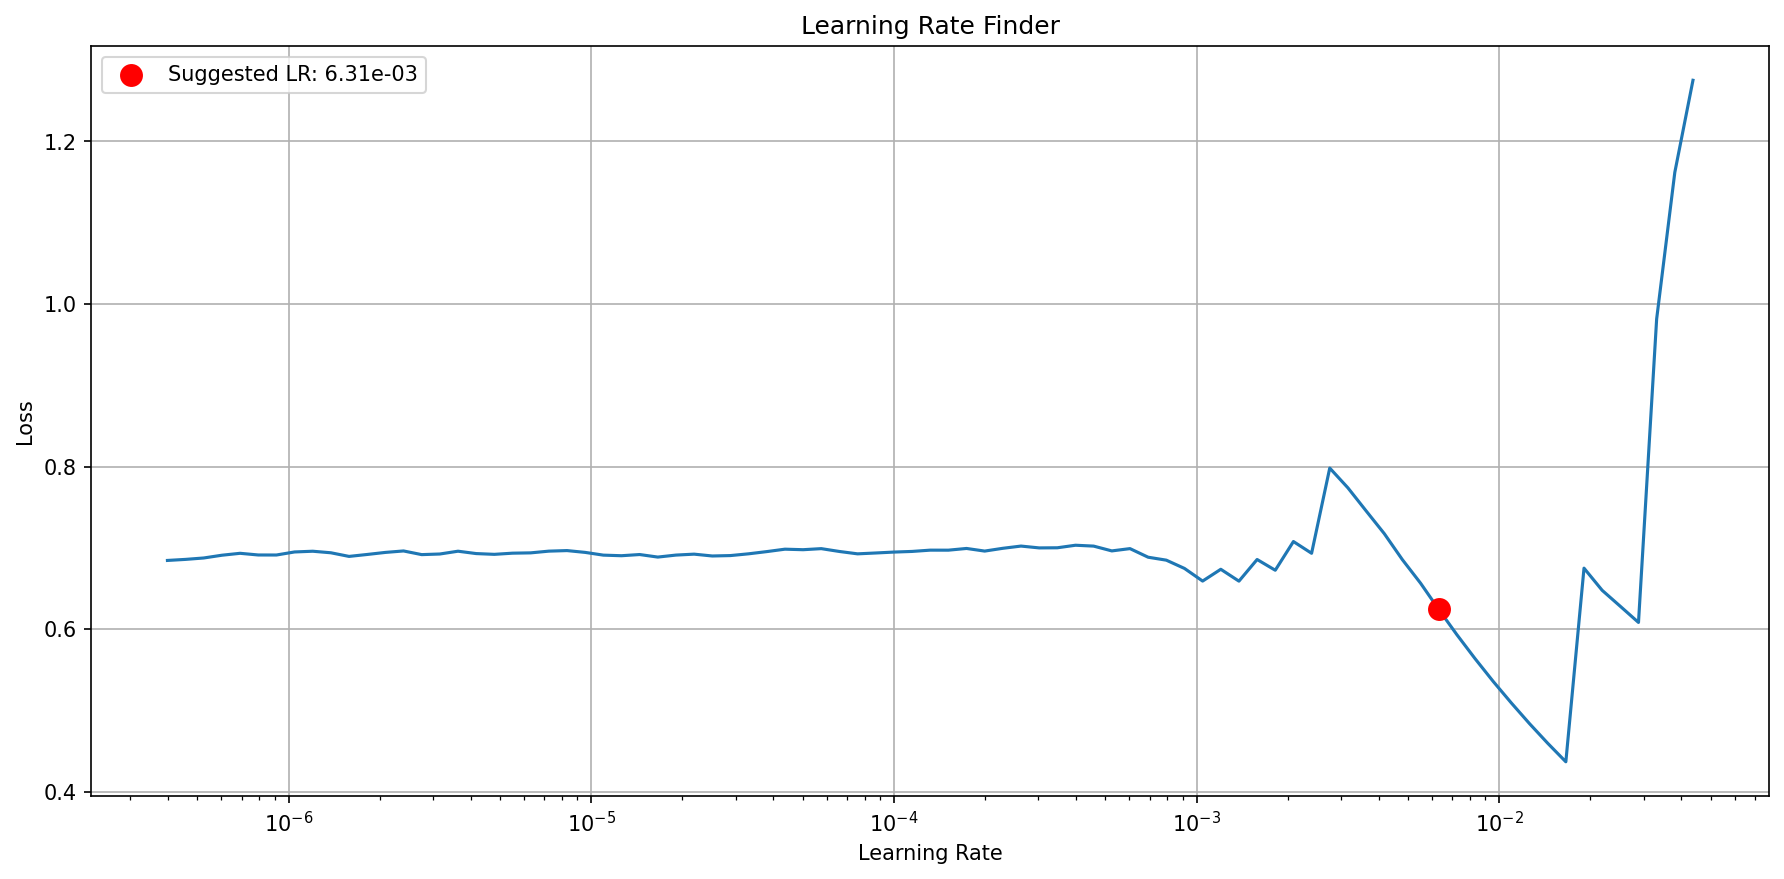
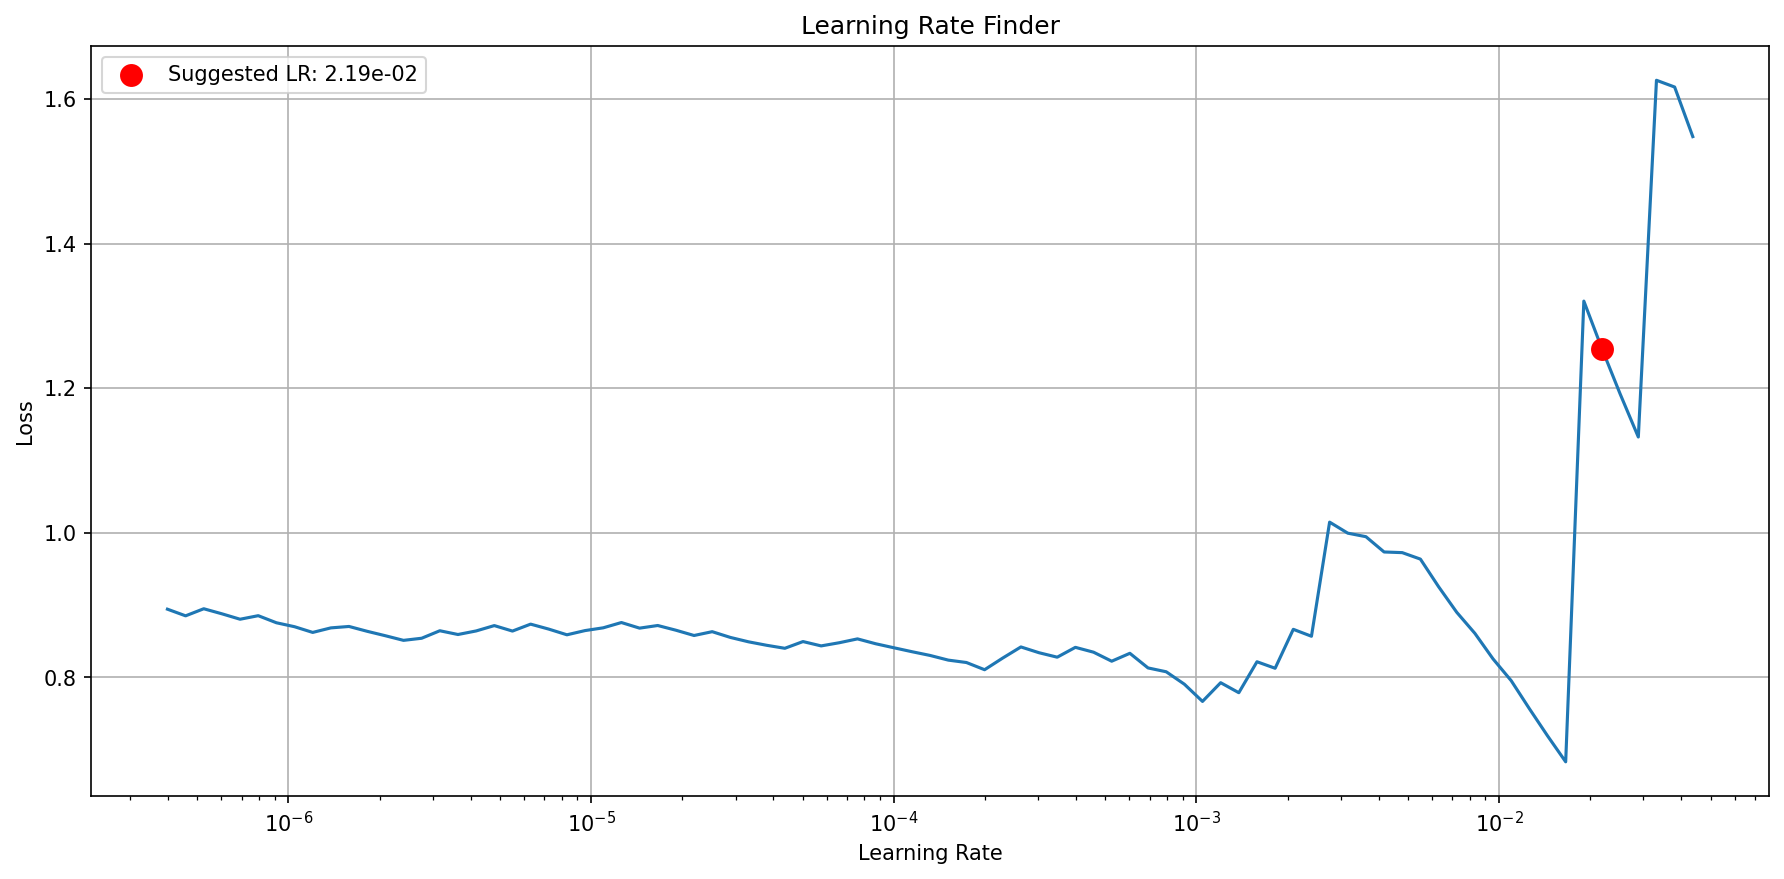
max_norm update

diff --git a/lr_finder.py b/lr_finder.py
@@ -17,6 +17,7 @@ parser.add_argument('--device', type=str, default='cuda',
 parser.add_argument('--weight_decay', type=float, default=1e-3,
                    help='Weight decay for optimizer')
 parser.add_argument('--variant', type=str, default="MLP", help='variant')
+parser.add_argument('--num_epochs', type=str, default=10, help='num_epochs')
 
 args, unknown = parser.parse_known_args()
 
@@ -35,6 +36,8 @@ from base import fetch_model, train_step_test_step_dataset_base, test_er_model, 
 from core.config import Config
 from constants import Constants as const
 
+MAX_NORM = 10.0
+#CUSTOM_BIAS = 0
 
 class LearningRateFinder:
     def __init__(self, model, optimizer, criterion, device):
@@ -130,7 +133,8 @@ class LearningRateFinder:
             
             # Backward pass
             loss.backward()
-            torch.nn.utils.clip_grad_norm_(self.model.parameters(), max_norm=1.0)
+            # CHANGE: Match max_norm=20.0 from base.py
+            torch.nn.utils.clip_grad_norm_(self.model.parameters(), max_norm=MAX_NORM)
             self.optimizer.step()
             
             # Update learning rate
@@ -224,8 +228,18 @@ def grid_search_lr(config, lr_values, num_epochs=5):
         
         # Create model and optimizer
         model = fetch_model(config)
+
+        """ # CHANGE: Add bias initialization to match base.py
+        last_linear = None
+        for m in model.modules():
+            if isinstance(m, torch.nn.Linear):
+                last_linear = m
+        if last_linear is not None:
+            print("Initializing last layer bias to 2.0 to force initial positive predictions.")
+            torch.nn.init.constant_(last_linear.bias, CUSTOM_BIAS) """
+
         optimizer = torch.optim.Adam(model.parameters(), lr=lr, weight_decay=config.weight_decay)
-        criterion = torch.nn.BCEWithLogitsLoss()
+        criterion = torch.nn.BCEWithLogitsLoss(pos_weight=torch.tensor([1.5], dtype=torch.float32).to(device))
         
         best_val_loss = float('inf')
         best_val_auc = 0
@@ -248,7 +262,8 @@ def grid_search_lr(config, lr_values, num_epochs=5):
                     break
                 
                 loss.backward()
-                torch.nn.utils.clip_grad_norm_(model.parameters(), max_norm=1.0)
+                # CHANGE: Match max_norm=20.0 from base.py
+                torch.nn.utils.clip_grad_norm_(model.parameters(), max_norm=MAX_NORM)
                 optimizer.step()
                 
                 train_losses.append(loss.item())
@@ -306,17 +321,19 @@ def grid_search_lr(config, lr_values, num_epochs=5):
     return results
 
 
-def main_lr_finder(device='cuda', weight_decay=1e-3, variant='MLP'):
+def main_lr_finder(device='cuda', weight_decay=1e-3, variant='MLP', num_epochs=10):
     """Run learning rate finder (fast method)"""
     print("Starting Learning Rate Finder (Range Test Method)...")
     print(f"Using Device: {device}")
     print(f"Using Weight Decay: {weight_decay}")
     print(f"Using Variant: {variant}")
+    print(f"Using Num Epochs: {num_epochs}")
     print(f"Using Custom Threshold: {CUSTOM_THRESHOLD}")
     
     # Create Config with device and variant arguments injected
     original_argv = sys.argv.copy()
-    sys.argv = [sys.argv[0], '--device', device, '--weight_decay', str(weight_decay), '--variant', variant]
+    sys.argv = [sys.argv[0], '--device', device, '--weight_decay', str(weight_decay),
+                '--variant', variant, '--num_epochs', num_epochs]
     
     conf = Config()
     
@@ -329,10 +346,12 @@ def main_lr_finder(device='cuda', weight_decay=1e-3, variant='MLP'):
     conf.device = device
     conf.weight_decay = weight_decay
     conf.variant = variant
+    conf.num_epochs = num_epochs
     
     print(f"Config.device: {conf.device}")
     print(f"Config.weight_decay: {conf.weight_decay}")
     print(f"Config.variant: {conf.variant}")
+    print(f"Config.num_epochs: {conf.num_epochs}")
     
     # Get data loaders
     train_loader, val_loader, test_loader = train_step_test_step_dataset_base(conf)
@@ -340,12 +359,21 @@ def main_lr_finder(device='cuda', weight_decay=1e-3, variant='MLP'):
     # Create model
     model = fetch_model(conf)
     
+    """ # CHANGE: Add bias initialization to match base.py
+    last_linear = None
+    for m in model.modules():
+        if isinstance(m, torch.nn.Linear):
+            last_linear = m
+    if last_linear is not None:
+        print("Initializing last layer bias to 2.0 to force initial positive predictions.")
+        torch.nn.init.constant_(last_linear.bias, CUSTOM_BIAS) """
+
     # Verify model device
     actual_device = next(model.parameters()).device
     print(f"Model is on device: {actual_device}")
     
     optimizer = torch.optim.Adam(model.parameters(), lr=1e-7, weight_decay=conf.weight_decay)
-    criterion = torch.nn.BCEWithLogitsLoss()
+    criterion = torch.nn.BCEWithLogitsLoss(pos_weight=torch.tensor([1.5], dtype=torch.float32).to(device))
     
     # Create LR Finder
     lr_finder = LearningRateFinder(model, optimizer, criterion, str(device))
@@ -365,17 +393,19 @@ def main_lr_finder(device='cuda', weight_decay=1e-3, variant='MLP'):
     lr_finder.plot(skip_start=10, skip_end=5, suggest=True)
 
 
-def main_grid_search(device='cuda', weight_decay=1e-3, variant='MLP'):
+def main_grid_search(device='cuda', weight_decay=1e-3, variant='MLP', num_epochs=10):
     """Run grid search over learning rates (slower but more accurate)"""
     print("Starting Learning Rate Grid Search...")
     print(f"Using Device: {device}")
     print(f"Using Weight Decay: {weight_decay}")
     print(f"Using Variant: {variant}")
+    print(f"Using Num Epochs: {num_epochs}")
     print(f"Using Custom Threshold: {CUSTOM_THRESHOLD}")
     
     # Create Config with device and variant arguments injected
     original_argv = sys.argv.copy()
-    sys.argv = [sys.argv[0], '--device', device, '--weight_decay', str(weight_decay), '--variant', variant]
+    sys.argv = [sys.argv[0], '--device', device, '--weight_decay', str(weight_decay),
+                '--variant', variant, '--num_epochs', num_epochs]
     
     conf = Config()
     
@@ -388,22 +418,24 @@ def main_grid_search(device='cuda', weight_decay=1e-3, variant='MLP'):
     conf.device = device
     conf.weight_decay = weight_decay
     conf.variant = variant
+    conf.num_epochs = num_epochs
     
     print(f"Config.device: {conf.device}")
     print(f"Config.weight_decay: {conf.weight_decay}")
     print(f"Config.variant: {conf.variant}")
+    print(f"Config.num_epochs: {conf.num_epochs}")
     
     # Define learning rates to test
     lr_values = [1e-5, 5e-5, 1e-4, 5e-4, 1e-3, 5e-3, 1e-2]
     
     # Run grid search
-    results = grid_search_lr(conf, lr_values, num_epochs=5)
+    results = grid_search_lr(conf, lr_values, num_epochs=int(num_epochs))
     
     return results
 
 
 if __name__ == "__main__":
     if args.method == 'finder':
-        main_lr_finder(device=args.device, weight_decay=args.weight_decay, variant=args.variant)
+        main_lr_finder(device=args.device, weight_decay=args.weight_decay, variant=args.variant, num_epochs=args.num_epochs)
     else:
-        main_grid_search(device=args.device, weight_decay=args.weight_decay, variant=args.variant)
+        main_grid_search(device=args.device, weight_decay=args.weight_decay, variant=args.variant, num_epochs=args.num_epochs)

diff --git a/base.py b/base.py
@@ -23,7 +23,8 @@ from dataloader.CaptainCookStepDataset import collate_fn, CaptainCookStepDataset
 from dataloader.CaptainCookSubStepDataset import CaptainCookSubStepDataset
 
 db_service = FirebaseService()
-CUSTOM_THRESHOLD = 0.15
+CUSTOM_THRESHOLD = 0.5
+MAX_NORM =10.0
 
 def fetch_model_name(config):
     if config.task_name == const.ERROR_CATEGORY_RECOGNITION:
@@ -166,7 +167,7 @@ def train_epoch(model, device, train_loader, optimizer, epoch, criterion):
         assert not torch.isnan(loss).any(), "Loss contains NaN values"
 
         loss.backward()
-        torch.nn.utils.clip_grad_norm_(model.parameters(), max_norm=1.0)  # Gradient clipping
+        torch.nn.utils.clip_grad_norm_(model.parameters(), max_norm=MAX_NORM)  # Gradient clipping
         optimizer.step()
         train_losses.append(loss.item())
         train_loader.set_description(
@@ -178,10 +179,21 @@ def train_epoch(model, device, train_loader, optimizer, epoch, criterion):
 
 def train_model_base(train_loader, val_loader, config, test_loader=None):
     model = fetch_model(config)
+
+    """ # CHANGE 1: Force the model to start by predicting positives.
+    # We find the last Linear layer and set its bias to 2.0 (approx 0.88 probability).
+    last_linear = None
+    for m in model.modules():
+        if isinstance(m, nn.Linear):
+            last_linear = m
+    if last_linear is not None:
+        print("Initializing last layer bias to 2.0 to force initial positive predictions.")
+        nn.init.constant_(last_linear.bias, 2.0) """
+
     device = config.device
     optimizer = optim.Adam(model.parameters(), lr=config.lr, weight_decay=config.weight_decay)
-    #criterion = nn.BCEWithLogitsLoss(pos_weight=torch.tensor([5.0], dtype=torch.float32).to(device))
-    criterion = nn.BCEWithLogitsLoss()
+    criterion = nn.BCEWithLogitsLoss(pos_weight=torch.tensor([1.5], dtype=torch.float32).to(device))
+    #criterion = nn.BCEWithLogitsLoss()
     scheduler = ReduceLROnPlateau(
         optimizer, mode='max',
         factor=0.1, patience=5, verbose=True,
@@ -227,7 +239,12 @@ def train_model_base(train_loader, val_loader, config, test_loader=None):
                 # assert not torch.isnan(loss).any(), "Loss contains NaN values"
 
                 loss.backward()
-                torch.nn.utils.clip_grad_norm_(model.parameters(), max_norm=1.0)  # Gradient clipping
+                
+                # CHANGE 2: Relax gradient clipping.
+                # With high pos_weight, gradients are huge. Clipping to 1.0 kills the update.
+                # Increase this significantly (e.g., to 10.0 or 50.0) to allow the weights to move.
+                torch.nn.utils.clip_grad_norm_(model.parameters(), max_norm=MAX_NORM)
+                
                 optimizer.step()
                 train_losses.append(loss.item())
                 
@@ -336,7 +353,7 @@ def train_sub_step_test_step_dataset_base(config):
         "num_workers": 1,
         "pin_memory": False,
     }
-    train_kwargs = {**cuda_kwargs, "shuffle": True, "batch_size": 1024}
+    train_kwargs = {**cuda_kwargs, "shuffle": True, "batch_size": 512}
     test_kwargs = {**cuda_kwargs, "shuffle": False, "batch_size": 1}
 
     train_dataset = CaptainCookSubStepDataset(config, const.TRAIN, config.split)
@@ -361,6 +378,9 @@ def train_sub_step_test_step_dataset_base(config):
 
 def test_er_model(model, test_loader, criterion, device, phase, step_normalization=False, sub_step_normalization=False,
                   threshold=CUSTOM_THRESHOLD):
+    # CHANGE: Switch to evaluation mode to disable Dropout and BatchNorm updates
+    model.eval()
+    
     total_samples = 0
     all_targets = []
     all_outputs = []
